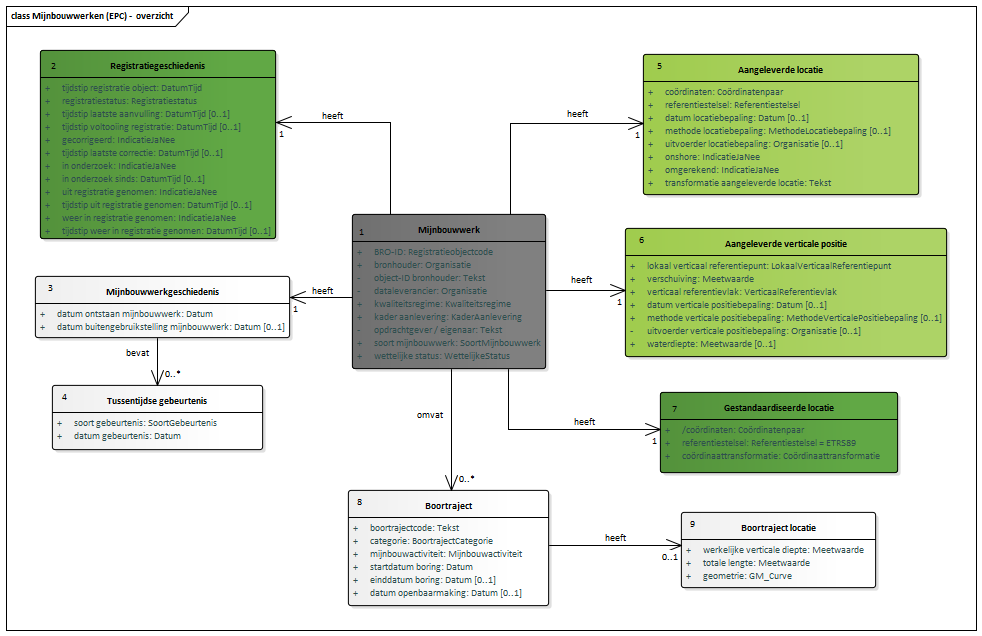
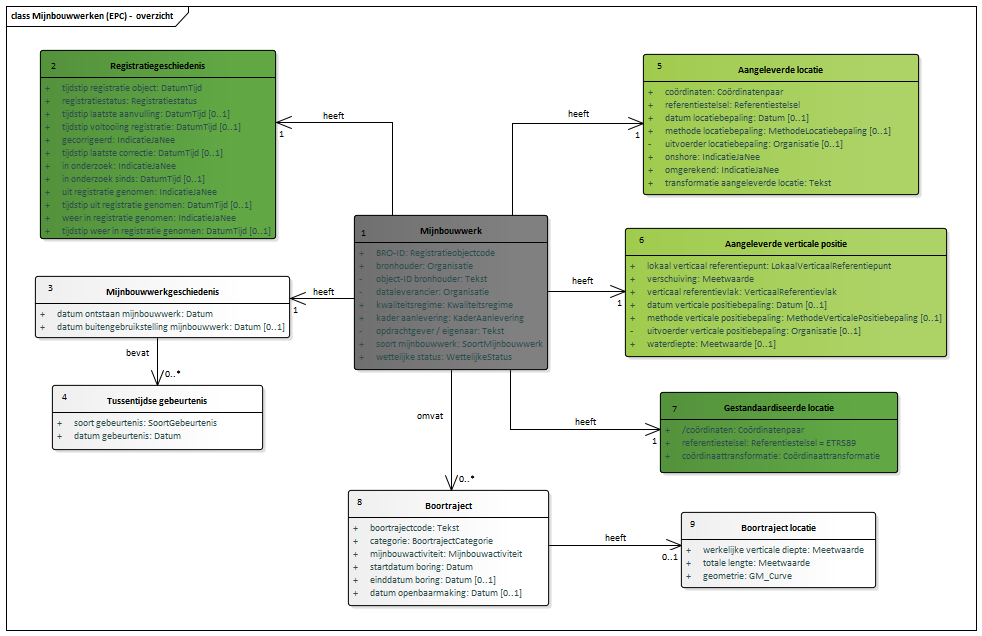
Conceptualmodel-MijnbouwconstructiesEPC-conceptueel-0.1versie27juli2020-1-20200727-20201023-122831

diff --git a/data/EPC-cat.msword.html b/data/EPC-cat.msword.html
@@ -15,7 +15,7 @@
    <body>
       <p>Conceptual model/Mijnbouwconstructies (EPC) - conceptueel/20200727</p>
       <p>Imvertor: 1.61.3</p>
-      <p>Model release: Conceptualmodel-MijnbouwconstructiesEPC-conceptueel-0.1versie27juli2020-1-20200727-20201023-085436</p>
+      <p>Model release: Conceptualmodel-MijnbouwconstructiesEPC-conceptueel-0.1versie27juli2020-1-20200727-20201023-122831</p>
       <hr>
       <section>
          <h1>Artikel 1 Definitie van registratieobject, entiteiten en attributen</h1>
@@ -29,7 +29,7 @@
                   <tbody>
                      <tr>
                         <th>Naam</th>
-                        <td>Locatie mijnbouwwerken</td>
+                        <td>Mijnbouwconstructie</td>
                      </tr>
                      <tr>
                         <th>Code</th>
@@ -61,7 +61,7 @@
          <section>
             <h2>Het domeinmodel</h2>
             <section id="">
-               <div class="imageinfo overview"><img src="Images/EAID_017CB205_53B6_4659_8664_F773CFA9FA2C.png" usemap="#imagemap-EAID_017CB205_53B6_4659_8664_F773CFA9FA2C" alt="Diagram "><map name="imagemap-EAID_017CB205_53B6_4659_8664_F773CFA9FA2C"><area shape="rect" alt="Tussentijdse gebeurtenis" coords="52,385,263,450" href="#graph_EAID_9C6EA470_E1F4_479d_B21A_A6E8EA9D3F88"><area shape="rect" alt="Mijnbouwwerkgeschiedenis" coords="35,276,290,338" href="#graph_EAID_C36A9725_3F81_4f6c_BDE2_5CED730905A2"><area shape="rect" alt="Boortraject locatie" coords="681,512,876,588" href="#graph_EAID_410F626E_1E87_47b5_AB5A_014C2D41B9B7"><area shape="rect" alt="Gestandaardiseerde locatie" coords="660,392,898,473" href="#graph_EAID_95E39295_3080_4135_862A_30756039B864"><area shape="rect" alt="Boortraject" coords="348,490,549,606" href="#graph_EAID_4E52826A_2252_4994_8AD0_986AD45E18C9"><area shape="rect" alt="Mijnbouwwerk" coords="352,214,546,369" href="#graph_EAID_69DE8D60_7E06_4b57_94CD_8338348EDAE5"><area shape="rect" alt="Registratiegeschiedenis" coords="40,50,276,239" href="#graph_EAID_8550146B_496A_40ca_BE86_AFD377E5A6D8"><area shape="rect" alt="Aangeleverde verticale positie" coords="625,228,947,357" href="#graph_EAID_A249D799_B098_49cd_98AA_DCAE0EB07DE7"><area shape="rect" alt="Aangeleverde locatie" coords="643,54,919,195" href="#graph_EAID_EDA11EEA_8FED_44be_AC04_18B58CB46F11"></map><p><b>Mijnbouwwerken (EPC) -  overzicht</b></p>
+               <div class="imageinfo overview"><img src="Images/EAID_017CB205_53B6_4659_8664_F773CFA9FA2C.png" usemap="#imagemap-EAID_017CB205_53B6_4659_8664_F773CFA9FA2C" alt="Diagram "><map name="imagemap-EAID_017CB205_53B6_4659_8664_F773CFA9FA2C"><area shape="rect" alt="Tussentijdse gebeurtenis" coords="52,385,263,450" href="#graph_EAID_9C6EA470_E1F4_479d_B21A_A6E8EA9D3F88"><area shape="rect" alt="Mijnbouwwerkgeschiedenis" coords="35,276,290,338" href="#graph_EAID_C36A9725_3F81_4f6c_BDE2_5CED730905A2"><area shape="rect" alt="Boortraject locatie" coords="681,512,876,588" href="#graph_EAID_410F626E_1E87_47b5_AB5A_014C2D41B9B7"><area shape="rect" alt="Gestandaardiseerde locatie" coords="660,392,898,473" href="#graph_EAID_95E39295_3080_4135_862A_30756039B864"><area shape="rect" alt="Boortraject" coords="348,490,549,606" href="#graph_EAID_4E52826A_2252_4994_8AD0_986AD45E18C9"><area shape="rect" alt="Mijnbouwwerk" coords="354,215,548,370" href="#graph_EAID_69DE8D60_7E06_4b57_94CD_8338348EDAE5"><area shape="rect" alt="Registratiegeschiedenis" coords="40,50,276,239" href="#graph_EAID_8550146B_496A_40ca_BE86_AFD377E5A6D8"><area shape="rect" alt="Aangeleverde verticale positie" coords="625,228,947,357" href="#graph_EAID_A249D799_B098_49cd_98AA_DCAE0EB07DE7"><area shape="rect" alt="Aangeleverde locatie" coords="643,54,919,195" href="#graph_EAID_EDA11EEA_8FED_44be_AC04_18B58CB46F11"></map><p><b>Mijnbouwwerken (EPC) -  overzicht</b></p>
                </div>
             </section>
          </section>
@@ -1683,7 +1683,7 @@
                      </section>
                </section><a class="anchor" id="graph_EAID_A249D799_B098_49cd_98AA_DCAE0EB07DE7"></a><a class="anchor" id="global_class_Model_Aangeleverdeverticalepositie"></a><section id="global_class_Model_Aangeleverdeverticalepositie">
                   <h3>   Aangeleverde verticale positie</h3>
-                  <div class="imageinfo "><img src="Images/EAID_E43DE41D_1042_4cc7_BE46_F2443ACF1254.png" usemap="#imagemap-EAID_E43DE41D_1042_4cc7_BE46_F2443ACF1254" alt="Diagram "><map name="imagemap-EAID_E43DE41D_1042_4cc7_BE46_F2443ACF1254"><area shape="rect" alt="Aangeleverde verticale positie" coords="0,-4,322,121" href="#graph_EAID_A249D799_B098_49cd_98AA_DCAE0EB07DE7"></map><p><b></b></p>
+                  <div class="imageinfo "><img src="Images/EAID_E43DE41D_1042_4cc7_BE46_F2443ACF1254.png" usemap="#imagemap-EAID_E43DE41D_1042_4cc7_BE46_F2443ACF1254" alt="Diagram "><map name="imagemap-EAID_E43DE41D_1042_4cc7_BE46_F2443ACF1254"><area shape="rect" alt="Aangeleverde verticale positie" coords="35,50,357,175" href="#graph_EAID_A249D799_B098_49cd_98AA_DCAE0EB07DE7"></map><p><b></b></p>
                   </div>
                   <table style="width: 100%;">
                      <colgroup style="width: 30%;"></colgroup>
@@ -2015,9 +2015,7 @@
                               <th>Regels</th>
                               <td>
                                  
-                                 <p>De organisatie moet bekend zijn binnen de basisregistratie ondergrond als uitvoerder
-                                    van booronderzoek bekend zijn.
-                                    Het gegeven wordt alleen uitgeleverd aan de dataleverancier en de bronhouder.</p>
+                                 <p>Het gegeven wordt alleen uitgeleverd aan de dataleverancier en de bronhouder.</p>
                                  </td>
                            </tr>
                         </tbody>
@@ -2614,6 +2612,15 @@
                                  boortraject is.</p>
                               </td>
                         </tr>
+                        <tr>
+                           <th>Toelichting</th>
+                           <td>
+                              
+                              <p>Locatiegegevens van een boortraject zijn publiek beschikbaar vanaf dat de huidige
+                                 datum groter dan of gelijk aan de datum openbaarmaking van het betreffende boortraject
+                                 is.</p>
+                              </td>
+                        </tr>
                      </tbody>
                   </table><a class="anchor" id="detail_attribute_Model_Boortrajectlocatie_werkelijkeverticalediepte"></a><section id="detail_attribute_Model_Boortrajectlocatie_werkelijkeverticalediepte">
                      <h4>  werkelijke verticale diepte</h4>
@@ -2656,18 +2663,15 @@
                               <td>m (meter)</td>
                            </tr>
                            <tr>
-                              <th>Regels</th>
-                              <td>
-                                 
-                                 <p>Dit gegeven is publiek beschikbaar vanaf het moment dat de huidige datum groter dan
-                                    of gelijk aan de datum openbaarmaking van het betreffende boortraject is.</p>
-                                 </td>
+                              <th>&nbsp;&nbsp;Waardebereik</th>
+                              <td> vanaf 0</td>
                            </tr>
                            <tr>
                               <th>Toelichting</th>
                               <td>
                                  
-                                 <p>Binnen het vakgebied is dit gegeven ook bekend onder de naam True Vertical Depth (TVD).</p>
+                                 <p>Binnen het vakgebied mijnbouw is dit gegeven ook bekend onder de naam True Vertical
+                                    Depth (TVD).</p>
                                  </td>
                            </tr>
                         </tbody>
@@ -2687,8 +2691,8 @@
                               <th>Definitie</th>
                               <td>
                                  
-                                 <p>De langs het boortraject gemeten afstand vanaf het lokaal verticaal referentiepunt
-                                    van het boorgat tot aan het punt waar het boortraject eindigt.</p>
+                                 <p>De afstand vanaf het lokaal verticaal referentiepunt van het boorgat tot aan het eindpunt
+                                    van het boortraject.</p>
                                  </td>
                            </tr>
                            <tr>
@@ -2713,11 +2717,18 @@
                               <td>m (meter)</td>
                            </tr>
                            <tr>
-                              <th>Regels</th>
+                              <th>&nbsp;&nbsp;Waardebereik</th>
+                              <td> vanaf 0</td>
+                           </tr>
+                           <tr>
+                              <th>Toelichting</th>
                               <td>
                                  
-                                 <p>Dit gegeven is publiek beschikbaar vanaf het moment dat de huidige datum groter dan
-                                    of gelijk aan de datum openbaarmaking van het betreffende boortraject is.</p>
+                                 <p>Binnen het vakgebied mijnbouw is dit gegeven ook bekend onder de naam einddiepte.
+                                    De totale lengte van een primair boortraject is de volledige lengte van dat boortraject.
+                                    De totale lengte van een zijtak is de volledige lengte van die zijtak met daarbij
+                                    opgeteld de lengtes van de stukken van het primaire boortraject en van eventuele zijtakken
+                                    tot aan het punt waar de zijtak begint.</p>
                                  </td>
                            </tr>
                         </tbody>
@@ -2761,8 +2772,10 @@
                               <th>Regels</th>
                               <td>
                                  
-                                 <p>Dit gegeven is publiek beschikbaar vanaf het moment dat de huidige datum groter dan
-                                    of gelijk aan de datum openbaarmaking van het betreffende boortraject is.</p>
+                                 <p>Het beginpunt van de geometrie van een boortraject dient te liggen op de geometrie
+                                    van een ander boortraject van hetzelfde mijnbouwwerk.
+                                    De geometrie van een boortraject mag niet kruisen met zichzelf of met de geometrie
+                                    van een ander boortraject van hetzelfde mijnbouwwerk.</p>
                                  </td>
                            </tr>
                         </tbody>
@@ -2807,8 +2820,11 @@
                      <td>✔</td>
                      <td>
                         
-                        <p>Een boortraject dat is gemaakt vanuit een primair boortraject of vanuit een andere
-                           zijtak.</p>
+                        <p>Een boortraject dat is gemaakt vanuit een primair boortraject (een boortraject van
+                           de categorie 'primair') of vanuit een andere zijtak. Een zijtak begint nooit bij het
+                           aardoppervlak. Iedere zijtak heeft één eindpunt; iedere eventuele afsplitsing ervan
+                           is op een zijtak op zichzelf. Een boortraject van de categorie zijtak loopt vanaf
+                           het punt van afsplitsing tot het eindpunt ervan.</p>
                         </td>
                   </tr>
                   <tr>
@@ -2818,7 +2834,8 @@
                      <td>
                         
                         <p>Het eerste boortraject dat is gemaakt in een boorgat. Vanuit het primaire boortraject
-                           kunnen zijtakken geboord worden.</p>
+                           kunnen zijtakken (boortrajecten van de categorie 'zijtak') geboord worden. Een primair
+                           boortraject begint altijd bij het aardoppervlak.</p>
                         </td>
                   </tr>
                </tbody>
